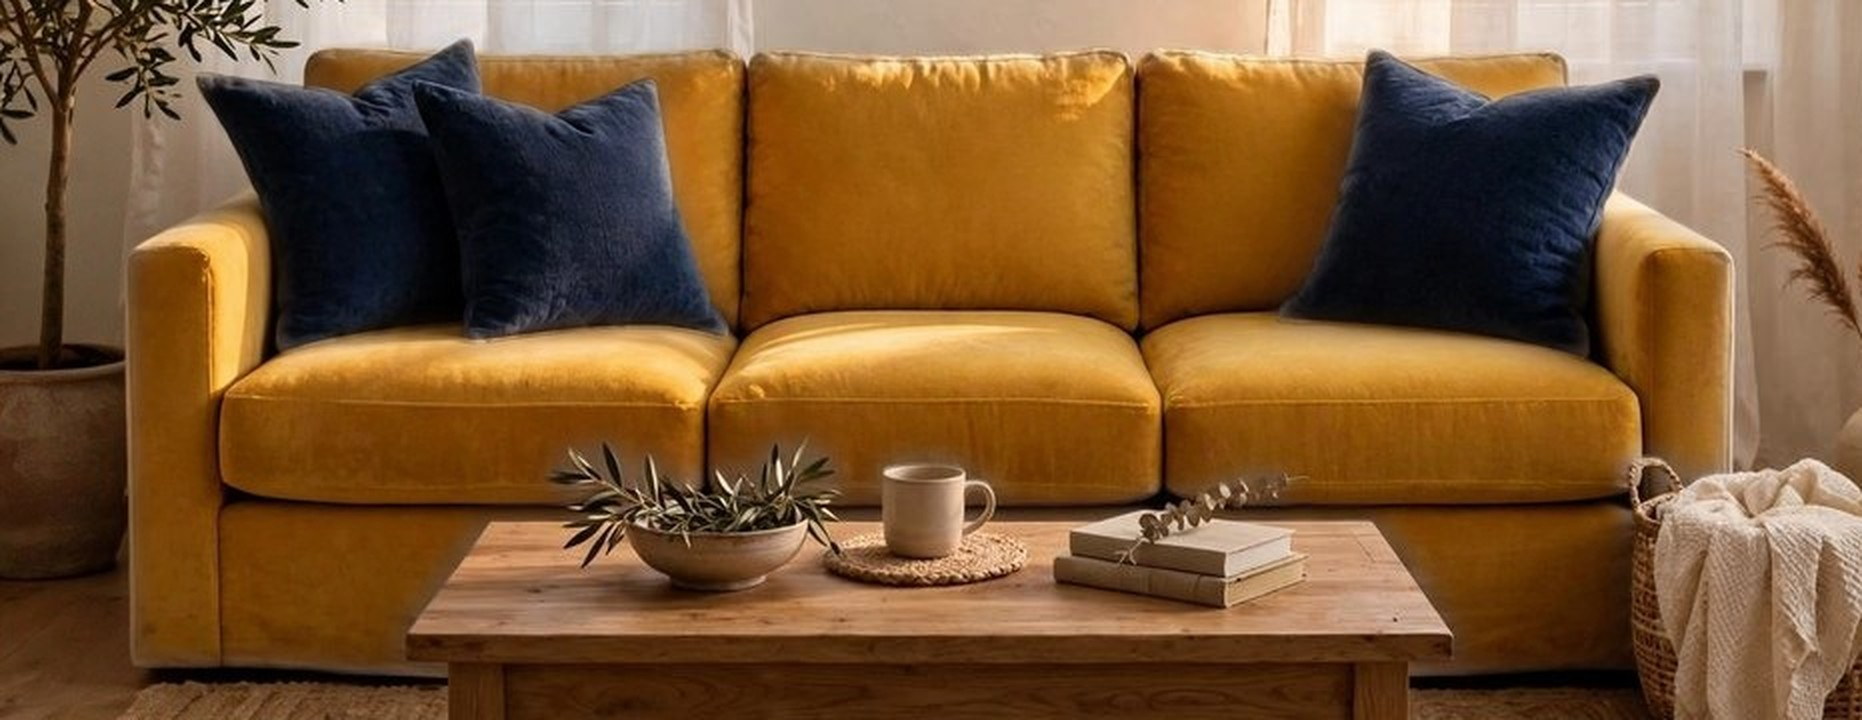
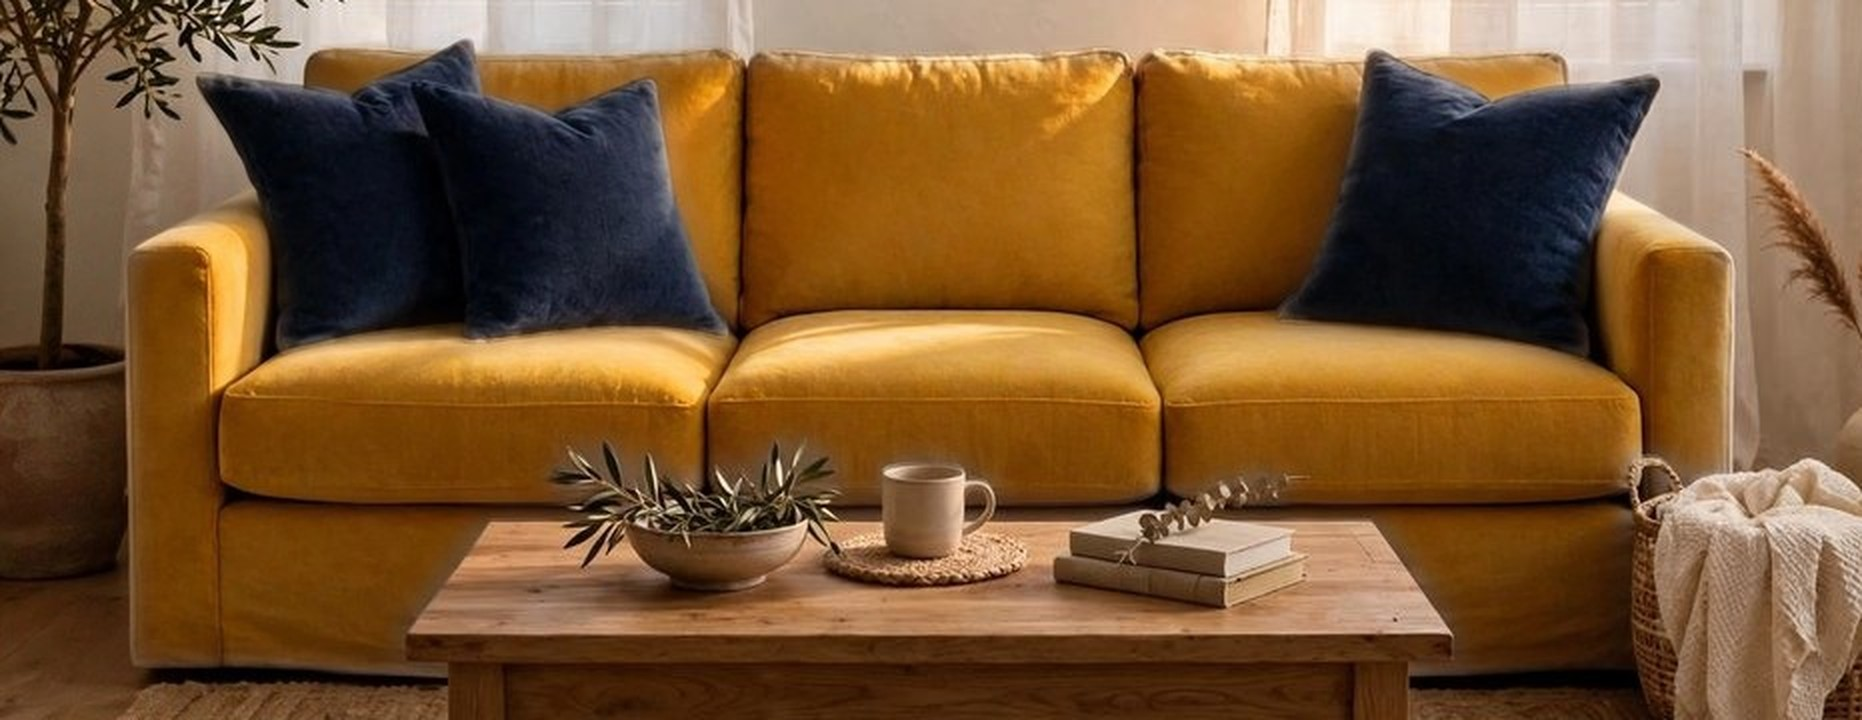
Hero: regenerate the warm look (right cushion was doubled); version query on every hero image so browsers stop showing stale renders after a regeneration

diff --git a/app/static/landing.js b/app/static/landing.js
@@ -80,6 +80,12 @@
     return words[item.target] || item.target;
   }
 
+  // File names never change between regenerations; the version from
+  // hero-looks.json keeps browsers from showing a cached old render.
+  function lookUrl(path) {
+    return path + (LOOKS && LOOKS.v ? "?v=" + LOOKS.v : "");
+  }
+
   function minScore(scores) {
     var vals = ["color", "pattern", "scale", "isolation"].map(function (k) {
       return (scores || {})[k] || 0;
@@ -112,7 +118,7 @@
     LOOKS.looks.forEach(function (lk) { if (lk.id === currentLook) look = lk; });
     if (!look) look = LOOKS.looks[0];
     var after = document.getElementById("heroAfter");
-    if (after && after.getAttribute("src") !== look.image) {
+    if (after && after.getAttribute("src") !== lookUrl(look.image)) {
       var ba = document.getElementById("heroBa");
       var onBtn = pills.querySelector('[data-look="' + look.id + '"]');
       if (ba) ba.classList.add("loading");
@@ -121,7 +127,7 @@
         if (ba) ba.classList.remove("loading");
         if (onBtn) onBtn.classList.remove("loading");
       };
-      after.src = look.image;
+      after.src = lookUrl(look.image);
       if (after.complete && after.naturalWidth) after.onload();
     }
     cap.innerHTML = (look.items || []).map(function (it) {
@@ -161,10 +167,12 @@
         if (!data || !data.looks || !data.looks.length) throw new Error("empty");
         LOOKS = data;
         currentLook = data.looks[0].id;
+        var before = document.getElementById("heroBefore");
+        if (before && data.before) before.src = lookUrl(data.before);
         renderLooks();
         // Warm the other renders so switching looks is instant.
         data.looks.forEach(function (lk) {
-          if (lk.image) { var im = new Image(); im.src = lk.image; }
+          if (lk.image) { var im = new Image(); im.src = lookUrl(lk.image); }
         });
       })
       .catch(function () { loadFallbackCaption(); });

diff --git a/app/static/landing.html b/app/static/landing.html
@@ -50,8 +50,8 @@
   </div>
   <div class="lp-hero-visual">
     <div class="lp-ba" id="heroBa" dir="ltr">
-      <img id="heroAfter" class="lp-ba-after" src="/landing/hero-after.jpg" alt="">
-      <div class="lp-ba-before" id="heroBeforeWrap"><img id="heroBefore" src="/landing/hero-before.jpg" alt=""></div>
+      <img id="heroAfter" class="lp-ba-after" src="/landing/hero-after.jpg?v=3" alt="">
+      <div class="lp-ba-before" id="heroBeforeWrap"><img id="heroBefore" src="/landing/hero-before.jpg?v=3" alt=""></div>
       <div class="lp-ba-line" id="heroLine"></div>
       <div class="lp-ba-handle" id="heroHandle"><i data-lucide="chevrons-left-right" aria-hidden="true"></i></div>
       <input id="heroRange" class="lp-ba-range" type="range" min="0" max="100" value="50" aria-label="Before and after comparison">

diff --git a/scripts/generate_hero_looks.py b/scripts/generate_hero_looks.py
@@ -296,6 +296,9 @@ def main(argv):
             failures += 1
             print("%s FAILED: %s" % (look, exc), flush=True)
     data["looks"] = [by_id[k] for k in LOOKS if k in by_id]
+    # Cache-buster: the image file names never change, so browsers kept
+    # showing stale renders after a regeneration.
+    data["v"] = int(time.time())
     with open(json_path, "w", encoding="utf-8") as f:
         json.dump(data, f, ensure_ascii=False, indent=1)
     shutil.rmtree(WORK, ignore_errors=True)
